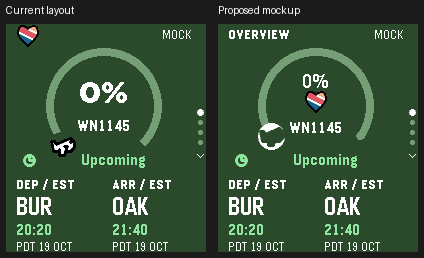
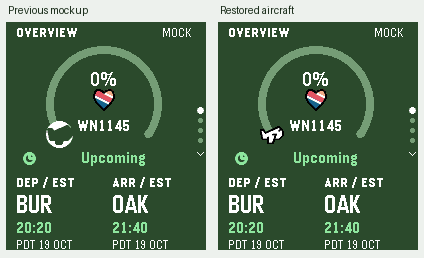
Restore supplied PDC aircraft on the overview progress ring

diff --git a/src/c/prototype/pebble_plane.c b/src/c/prototype/pebble_plane.c
@@ -8,9 +8,48 @@
 static GPoint s_body_points[] = {{3,17},{20,17},{24,13},{24,8},{20,4},{6,10},{4,7},{1,7}};
 static GPoint s_wing_points[] = {{9,15},{9,21},{14,21},{17,12},{14,12}};
 static GPath *s_body, *s_wing;
+static GDrawCommandImage *s_scheduled, *s_in_flight;
+enum { MARKER_SIZE = 25 };
+
+static int16_t scale_coordinate(int16_t value, int16_t source_size) {
+  int32_t scaled = value * MARKER_SIZE;
+  return (scaled + (scaled < 0 ? -source_size / 2 : source_size / 2)) / source_size;
+}
+
+static bool scale_command(GDrawCommand *command, uint32_t index, void *context) {
+  (void)index;
+  int16_t source_size = *(int16_t *)context;
+  // Both integer paths and PrecisePath's 13.3 coordinates scale in their own units.
+  for (uint16_t i = 0; i < gdraw_command_get_num_points(command); ++i) {
+    GPoint point = gdraw_command_get_point(command, i);
+    gdraw_command_set_point(command, i, GPoint(scale_coordinate(point.x, source_size),
+                                             scale_coordinate(point.y, source_size)));
+  }
+  uint8_t stroke = gdraw_command_get_stroke_width(command);
+  if (stroke) {
+    int16_t width = scale_coordinate(stroke, source_size);
+    gdraw_command_set_stroke_width(command, width > 0 ? width : 1);
+  }
+  return true;
+}
+
+static GDrawCommandImage *load_marker(uint32_t resource) {
+  GDrawCommandImage *image = gdraw_command_image_create_with_resource(resource);
+  if (!image) { return NULL; }
+  int16_t source_size = gdraw_command_image_get_bounds_size(image).w;
+  // The original square 50/80 px resources stay intact; fit either into the
+  // accepted marker footprint once at load time, rather than during every draw.
+  gdraw_command_list_iterate(gdraw_command_image_get_command_list(image),
+                             scale_command, &source_size);
+  gdraw_command_image_set_bounds_size(image, GSize(MARKER_SIZE, MARKER_SIZE));
+  return image;
+}
+
 void pebble_plane_init(void) {
   s_body = gpath_create(&(GPathInfo){8, s_body_points});
   s_wing = gpath_create(&(GPathInfo){5, s_wing_points});
+  s_scheduled = load_marker(RESOURCE_ID_PROGRESS_PLANE_50);
+  s_in_flight = load_marker(RESOURCE_ID_PROGRESS_PLANE_80);
 }
 static void draw(GContext *ctx, GPoint center, GColor fill, GColor stroke) {
   if (!s_body || !s_wing) { return; }
@@ -30,13 +69,19 @@ static void draw(GContext *ctx, GPoint center, GColor fill, GColor stroke) {
 void pebble_plane_draw(GContext *ctx, GPoint center) {
   draw(ctx,center,GColorWhite,GColorBlack);
 }
-void pebble_plane_badge_draw(GContext *ctx, GPoint center) {
-  graphics_context_set_fill_color(ctx,GColorWhite);
-  graphics_fill_circle(ctx,center,13);
-  draw(ctx,center,GColorDarkGreen,GColorDarkGreen);
+void pebble_plane_progress_draw(GContext *ctx, GPoint center, bool in_flight) {
+  GDrawCommandImage *image = in_flight ? s_in_flight : s_scheduled;
+  if (image) {
+    gdraw_command_image_draw(ctx, image, GPoint(center.x - MARKER_SIZE / 2,
+                                             center.y - MARKER_SIZE / 2));
+  } else {
+    pebble_plane_draw(ctx, center);
+  }
 }
 void pebble_plane_deinit(void) {
   if (s_body) { gpath_destroy(s_body); }
   if (s_wing) { gpath_destroy(s_wing); }
+  if (s_scheduled) { gdraw_command_image_destroy(s_scheduled); }
+  if (s_in_flight) { gdraw_command_image_destroy(s_in_flight); }
 }
 #endif

diff --git a/src/c/prototype/prototype_ui.c b/src/c/prototype/prototype_ui.c
@@ -201,7 +201,7 @@ static const char *time_heading(const FlightTime *time, bool departure) {
 static void draw_overview(GContext *ctx, const Flight *flight) {
   label(ctx,"OVERVIEW",10,1,120);
   text(ctx,source_label(),145,1,40,18,FONT_KEY_GOTHIC_14,GColorWhite,GTextAlignmentRight);
-  // Retain a 116px outside diameter. The 8px stroke and aircraft badge use
+  // Retain a 116px outside diameter. The 8px stroke and aircraft marker use
   // the same 108px centerline circle, keeping the marker on the track.
   GRect ring=GRect(40,24,116,116);
   GRect track=grect_inset(ring,GEdgeInsets(4));
@@ -217,7 +217,7 @@ static void draw_overview(GContext *ctx, const Flight *flight) {
   }
   if (progress>=0) {
     GPoint marker=gpoint_from_polar(track,GOvalScaleModeFitCircle,start+sweep*progress/100);
-    pebble_plane_badge_draw(ctx,marker);
+    pebble_plane_progress_draw(ctx,marker,flight->status == FLIGHT_IN_FLIGHT);
     char percent[16];
     snprintf(percent,sizeof(percent),"%d%%",progress);
     text(ctx,percent,56,40,84,28,FONT_KEY_GOTHIC_24_BOLD,

diff --git a/src/c/prototype/pebble_plane.h b/src/c/prototype/pebble_plane.h
@@ -2,5 +2,5 @@
 #include <pebble.h>
 void pebble_plane_init(void);
 void pebble_plane_draw(GContext *ctx, GPoint center);
-void pebble_plane_badge_draw(GContext *ctx, GPoint center);
+void pebble_plane_progress_draw(GContext *ctx, GPoint center, bool in_flight);
 void pebble_plane_deinit(void);

diff --git a/docs/OVERVIEW_MOCKUP.md b/docs/OVERVIEW_MOCKUP.md
@@ -8,18 +8,24 @@ promoted to `main`; the existing 0.7.4 release remains at `0baeee3`.
 - Restore the neutral **OVERVIEW** header.
 - Use the smaller native **Gothic 24 Bold** percentage, followed by the supplied
   **25 px airline logo**, then the existing **Gothic 18 Bold** flight number.
-- Keep the circle's 116 px outside diameter. An 8 px stroke and the aircraft badge
+- Keep the circle's 116 px outside diameter. An 8 px stroke and the aircraft marker
   share a 108 px centerline circle, so the airplane sits on the track. The opening
-  is slightly wider (250° of progress arc) to keep the end badges clear of the
+  is slightly wider (250° of progress arc) to keep the end markers clear of the
   centered information and status row.
-- Use a white badge with the native Pebble aircraft in dark green. Its position
-  follows the same reported progress as before; no progress is inferred from times.
+- Restore the supplied white/black aircraft, with no circular badge. Convert both
+  SVGs to PDC: use the **80×80 source with motion lines for in-flight flights**,
+  and the **50×50 source for other states with known progress**. Both fit the
+  existing **25×25 display footprint**. The accepted centerline placement and
+  progress formula are unchanged; no progress is inferred from times. Canceled
+  and unknown-progress flights retain the existing no-marker behavior.
 - Add the twelve newly supplied airlines, for **17 total**. Assets are unchanged
   25 px color PDCs. Unsupported carriers use a neutral aircraft in the logo slot.
 - Preserve the other detail pages, list, launcher, data integration and controls.
 
 Artwork provenance, hashes and IATA/ICAO mapping are in
 [`resources/airline-icons/`](../resources/airline-icons/README.md).
+Aircraft sources, conversion commands, fractional-stroke diagnostic and native
+scaling are in [`resources/progress-plane/`](../resources/progress-plane/README.md).
 
 ## Offline interactive preview
 
@@ -68,30 +74,32 @@ The normal six-scenario fixture and production flight integration are unchanged.
 ## Native screenshots and validation
 
 - [Three progress examples](overview-mockup/preview.png).
-- [Current layout / proposed mockup, identical inputs](overview-mockup/before-after.png).
+- [Previous badge / restored aircraft, identical inputs](overview-mockup/before-after.png).
 - [All 17 logos and the neutral fallback](overview-mockup/all-airlines.png).
 - [Machine-readable checks](overview-mockup/results.json).
 
 Both the ordinary live-mode build and the isolated offline preview compiled with
 Pebble Tool **5.0.40 / SDK 4.33.1**, metadata **3**, **emery**. The live build uses
-**38,297 bytes RAM / 92,775 bytes free heap**; the preview uses **13,137 / 117,935**.
-Both use **16,196 bytes resources**. The only linker diagnostic is the existing
+**38,697 bytes RAM / 92,375 bytes free heap**; the preview uses **13,525 / 117,547**.
+Both use **16,487 bytes resources**. The only linker diagnostic is the existing
 SDK ELF LOAD-segment RWX warning. All **nine automated suites** pass.
 
 Actual local Emery emulator screenshots cover all 17 airlines, the neutral
 fallback, upcoming/boarding/airborne/landed/delayed/canceled states and unknown
-progress. Native progress samples cover **0, 25, 35, 40, 45, 50, 60, 65, 75, 90,
+progress. This marker revision's native samples cover **0, 25, 35, 45, 50, 60, 65, 75, 90,
 100 percent**, rather than every integer. All screenshots use synthetic data;
 no provider key was configured and no flight-service requests were made.
 
-The SDK transport stalled during a longer AppMessage-driven screenshot sweep.
-The completed offline, button-driven preview run verified every airline. A
-baseline build used `main`'s original renderer and aircraft helper with identical
-preview fixtures, without editing `main`. **All Flights, Departure, Arrival,
-Booking and restored selection matched pixel for pixel**. The original five
-PDC files still match their previous SHA-256 hashes; all 17 match the attachment.
+The completed offline, button-driven preview run verified all 18 examples. The
+prior mockup had already been checked against `main` with identical fixtures.
+For this marker revision, **All Flights, Departure, Arrival, Booking and restored
+selection again matched the previous screenshots pixel for pixel**. Every changed
+Overview differs only within the old badge/current aircraft area (27×27 px);
+canceled and unknown-progress Overviews are identical. The 17 airline PDC files
+are unchanged. The native 50/80 px resource selection and readability were
+inspected in the screenshots. No clipping was observed at the sampled positions.
 
 The source ZIP passed its integrity check and was verified to contain mock mode,
-the separate preview identity, all 17 raw logo resources and no duplicate source
+the separate preview identity, all 17 raw logo resources, both aircraft PDCs and no duplicate source
 files. The PBW's embedded name/UUID were also checked. Physical-watch testing and
 CloudPebble's authenticated import/build/run were not exercised in this session.

diff --git a/resources/progress-plane/README.md b/resources/progress-plane/README.md
@@ -1,0 +1,40 @@
+# Supplied scheduled-flight aircraft
+
+The two SVGs are byte-for-byte copies of the user's attachments from
+`resources/images/plane_icon/` in their local Developer checkout. The white fill,
+black outline and transparent background are preserved. The 80×80 artwork has
+motion lines. The originals are retained here; their SHA-256 hashes and the PDC
+hashes are recorded in `manifest.json`.
+
+Converted with [HBehrens pdc_tool](https://github.com/HBehrens/pdc_tool), version
+0.3.4, before changing the native renderer:
+
+```sh
+pdc_tool Scheduled_flight_50x50.svg pdc Scheduled_flight_50x50.pdc
+pdc_tool Scheduled_flight_80x80.svg pdc Scheduled_flight_80x80.pdc
+```
+
+The 50×50 PDC has 3 commands / 103 bytes; the 80×80 PDC has 8 commands / 188 bytes.
+The 50 px conversion has no diagnostics. The 80 px SVG contains one fractional
+stroke width (3.2866) that PDC quantizes. The converter's exact diagnostic is:
+
+> Stroke width of 3.2866 cannot be expressed in PDC. Clamped to closed valid color.
+
+SVG and PDC renders made with this tool matched pixel for pixel at source
+resolution against black, white and dark-green backgrounds. This verifies the
+tool's own rendering paths, not arbitrary SVG renderer equivalence.
+
+Both original-size PDCs are bundled as raw resources. `pebble_plane.c` loads and
+scales their vector command coordinates once to a **25×25 on-screen footprint**,
+keeping native integer stroke widths at least 1 px. No raster intermediate is
+used. This preserves the accepted marker position and footprint rather than
+covering the Overview's text with a literal 80 px marker.
+
+- **In flight, known progress:** use the 80×80 source with motion lines.
+- **Other states with known progress:** use the 50×50 source.
+- **Canceled or unknown progress:** preserve the existing no-marker behavior.
+
+The circle centerline, start/sweep angles, percentage, airline logo, flight
+number, status row, other screens and controls remain unchanged. The solid white
+badge has been removed. The original Pebble GPath fallback remains available if
+a resource cannot be allocated; its attribution is in `../pebble-iconography/`.

diff --git a/resources/pebble-iconography/NOTICE.md b/resources/pebble-iconography/NOTICE.md
@@ -5,3 +5,8 @@ The original SVG and Apache-2.0 license are retained alongside this notice.
 Modification: SVG polygon, open polyline and cockpit line translated to Pebble
 GPath/drawing primitives; the half-pixel wing coordinate is rounded to 15.
 The icon is drawn at its original 25×25 size, without bitmap scaling or rotation.
+
+This GPath remains the neutral logo/empty-state and allocation-failure fallback.
+The Overview progress marker now uses the user's supplied 50/80 px SVG derivatives,
+converted to PDC and scaled to the existing marker footprint. Sources, conversion
+details and native scaling are documented in `resources/progress-plane/README.md`.

diff --git a/resources/airline-icons/README.md b/resources/airline-icons/README.md
@@ -33,4 +33,5 @@ Mapping uses the saved flight-number prefix (marketing airline); a prefix must
 be followed by a digit, optionally after spaces. Codeshare operating carriers
 are not guessed. Unsupported carriers use a neutral aircraft in the logo slot.
 The airline logo sits below the progress percentage and above the flight number.
-The moving aircraft is a separate white badge centered on the progress stroke.
+The moving aircraft is a separate white/black PDC centered on the progress stroke.
+Its 50/80 px source variants are documented in [progress-plane](../progress-plane/README.md).

diff --git a/README.md b/README.md
@@ -2,7 +2,7 @@
 
 **Overview mockup — unapproved, local branch `codex/overview-airline-mockup`.**
 This branch centers the airline logo inside the circle, reduces the percentage,
-aligns an aircraft badge with the progress stroke and adds all 17 supplied airline
+aligns the supplied white/black PDC aircraft with the progress stroke and adds all 17 supplied airline
 logos. `main` remains unchanged. See [the mockup and offline preview](docs/OVERVIEW_MOCKUP.md).
 The release notes below describe the existing production version.
 
